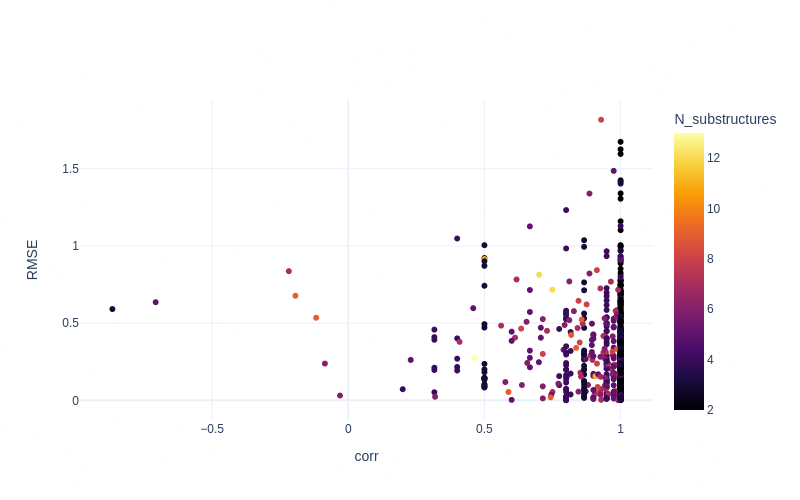
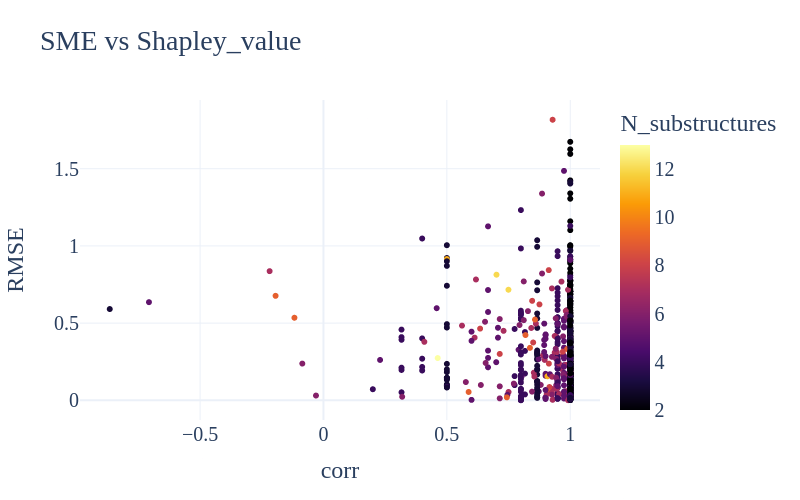
Create graphs for results section

diff --git a/thesis/content/chapters/introduction.tex b/thesis/content/chapters/introduction.tex
@@ -442,30 +442,31 @@ value that does include a communication structure is the Hamiache-Navarro value.
 \subsection{Hamiache-Navarro value}
 
 
-The Hamiache-Navarro value is introduced using one of the simplest examples
-(\cref{fig:shapley_hn_example}): 
-a three-player game $(N, v, g)$ with $N = \{1, 2, 3\}$ and a graphical structure 
-$g = \{\{1, 2\}, \{2, 3\}\}$ defined as a set of adjacent players. Communication 
+During the discussion of the HN value, an example will be used to illustrate 
+the concepts of the HN value and to make a comparison with the Shapley value. 
+The example game is an unanimity game $(N, v_N, g)$ (\cref{fig:shapley_hn_example}) 
+with three players $N = \{1, 2, 3\}$ and a communication structure $g = \{\{1, 2\}, \{2, 3\}\}$ 
+defined as a set of adjacent players.\cite{hamiache_associated_2020} Communication 
 between players is possible only if these players are connected by the graph 
-$\left<N, g\right>$. Players $i$ and $j$ are connected, represented by $i \leftarrow j$, 
-if they are adjacent (i.e. $\{i, j\} \in g$) or if there exists a sequence 
-$i = i_1, i_2, \dots, i_k = j$ of players such that $\{i_q, i_{q+1}\} \in g$ 
-for $1 \le q \le k - 1$. For example, players one and two are adjacent, and 
-players one and three are connected by the sequence 1, 2, 3.\cite{hamiache_value_1999, hamiache_associated_2020} 
+$\left<N, g\right>$. Players $i$ and $j$ are connected by a path, represented by $i \rightarrow j$, 
+if there exists a sequence $i = i_1, i_2, \dots, i_k = j$ of players such 
+that $\{i_q, i_{q+1}\} \in g$ for $1 \le q \le k - 1$. For example, 
+players one and two are adjacent and thus connected via the path $1, 2$. 
+Players one and three are connected by the sequence 1, 2, 3.\cite{hamiache_value_1999, hamiache_associated_2020} 
 
 
 \begin{figure}[h]
     \centering
     \includegraphics[scale=1.7]{shapley_hn_example.png}
-    \caption{Shapley values and HN values for an example game with communication structure 
-    given by the shown graph.}
+    \caption{Shapley values and HN values for the unanimity game $(\{1, 2, 3\}, v_{\{1, 2, 3\}}, \{\{1, 2\}, \{2, 3\}\})$ 
+            with communication structure given by the shown graph.}
     \label{fig:shapley_hn_example}
 \end{figure}
 
 
 A coalition $S \subseteq N$ can only directly interact with its connected neighbors 
 $\mathcal{N}(S) \coloneqq \{ j \in N \setminus S | \exists i \in S \text{ such that } \{i, j\} \in g \}$. 
-Player one can only interact directly with player two and not with player three
+Therefore, player one can only interact directly with player two and not with player three
 in the example game.
 The interconnection of the neighbors of $S$ is of no importance as the coalition 
 $S$ cannot see them. Therefore, the coalition $S$ can value its
@@ -478,7 +479,7 @@ that eventually converges to a limit game $(N, \tilde{v}, g)$. The Hamiache-Nava
 the example game, the associated payoff of player one is only directly influenced 
 by player two because player one and three cannot directly communicate 
 with each other. This means that the coalition $\{1, 3\}$ has a weight of zero for the 
-value of player one. However, the Shapley value would consider the coalition 
+HN value of player one. However, the Shapley value would consider the coalition 
 $\{1, 3\}$ for a weight of
 $\frac{|S|! ( |N| - |S| - 1)!}{|N|!} = \frac{2! (3 - 2 - 1)!}{3!} = \frac{1}{3}$ (see \cref{eq:Shapley}).
 
@@ -508,8 +509,26 @@ To be consistent, an order of the matrix columns and rows are defined. Therefore
 for coalitions of the same size. Suppose $A$ and $B$ are coalitions of the same size where the elements are ordered
 from small to large (i.e. $a_1 < a_2 < \dots < a_k, \quad a_i \in A$). The coalition $A$ comes lexicographic
 before coalition $B$ ($A \prec B$) if and only if $a_1 < b_1$ or $\exists \gamma \in \mathbb{N}, 1 \le i < \gamma: a_i = b_i \land a_\gamma < b_\gamma$.
-For two arbitrary coalitions $S$ and $T$, $S < T$ if $|S| < |T|$ or $S \prec T$. Using this ordering, the characteristic
-function $v$ of the game $(N, v, g)$ can be represented as a vector in $\mathbb{R}^{2^N - 1}$. The associated game
+For two arbitrary coalitions $S$ and $T$, $S < T$ if $|S| < |T|$ or $S \prec T$. 
+Using this ordering, the characteristic function $v$ of the game $(N, v, g)$ 
+can be represented as a vector in $\mathbb{R}^{2^N - 1}$, where the first $|N|$ elements 
+correspond to the values of coalitions of size one, the next $\frac{|N|!}{2!(|N| - 2)!}$, etc . 
+For the running example, this results in the following characteristic vector:
+
+
+\begin{equation}
+    \begin{aligned}
+        v &= \begin{pmatrix}
+        v(\{1\}) & v(\{2\}) & v(\{3\}) & v(\{1, 2\}) & v(\{1, 3\}) & v(\{2, 3\})& v(\{1, 2, 3\})
+    \end{pmatrix}^T \\
+    &= \begin{pmatrix}
+      0 & 0 & 0 & 0 & 0 & 0 & 1
+    \end{pmatrix}^T 
+    \end{aligned}
+\end{equation}
+
+
+The associated game
 \cref{eq:associated_game} $v^*_\tau = P_g M_c P_g v$ can then be written as a linear transformation of the characteristic vector
 , where the square matrix $M_c$ for two arbitrary coalitions $\emptyset \ne S \subseteq N$
 and $\emptyset \ne T \subseteq N$ is given by\cite{hamiache_associated_2020,hamiache2010matrix}

diff --git a/thesis/content/chapters/results_and_discussion.tex b/thesis/content/chapters/results_and_discussion.tex
@@ -1,13 +1,74 @@
 \chapter{Results and discussion}
 
-\section{Model training and evaluation}
+\section{RGCN is able to accurately predict expected water solubility}
 
 
-\section{Absolute prediction error in function of Spearman rank correlation between different attribution methods}
+% \begin{figure}[h]
+%     \centering
+%     \includegraphics[scale=0.20]{rgcn_r2.png}
+%     \includegraphics[scale=0.20]{rgcn_mse.png}
+%     \caption{Average Mean squared error (left) and $R^2$ (right) of train (orange) and validation 
+%     (blue) data during model training over the ten RGCN models, each trained using a different 
+%     seed. Both metrics show a good model performance and no overfitting.}
+% \end{figure}
 
 
-\section{Relative evaluation of attribution methods using chemically intuitively ranked substructures}
+\begin{figure}[h]
+    \centering
+    \includegraphics[scale=0.20]{rgcn_r2_zoomed.png}
+    \includegraphics[scale=0.20]{rgcn_mse_zoomed.png}
+    \caption{Average $R^2$ (left) and mean squared error (right) of train (orange) and validation 
+    (blue) data during model training over the ten RGCN models, each trained using a different 
+    seed. Both metrics show a good model performance and no overfitting. }
+\end{figure}
+
+\section{The absolute prediction error is not associated with the Spearman rank correlation between different attribution methods}
 
 
-\section{Explanation faithfullnes: fidelity}
+\begin{figure}[h]
+    \centering
+    \includegraphics[scale=0.35]{../data/images/esol_rank_vs_AE_SME_Shapley_combined.png}
+    \includegraphics[scale=0.35]{../data/images/esol_rank_vs_AE_Shapley_HN_combined.png}
+    \caption{Absolute error of model prediction in function of Spearman rank correlation between 
+        attributions from SME and Shapley (top) and between Shapley and HN (bottom) using the full 
+        data set containing 1110 molecules.
+    }
+\end{figure}
 
+
+\section{Relative evaluation of attribution methods using chemically intuitively ranked substructures shows no statistical
+significant difference between the attribution methods}
+
+\begin{figure}[h]
+    \centering
+    \includegraphics[scale=0.5]{spearman_rank_correlation_manual_vs_attribution.png}
+    \caption{Distribution of Spearman rank correlation between an attribution method 
+        and a manual ranking of substructures using chemical reasoning. The difference 
+        between the two absolute error groups is mainly the intensity of high 
+        correlation values.
+    }
+    \label{fig:spearman_corr_manual}
+\end{figure}
+
+
+\section{All attribution methods are equally faithful to the ML model}
+
+\begin{figure}[h]
+    \centering
+    \includegraphics[scale=0.5]{fidelity.png}
+    \caption{Distribution of fidelity obtained by removing the most positive 
+        attribution (right side) or the most negative attribution (left side).
+    }
+    \label{fig:fidelity}
+\end{figure}
+
+
+\begin{figure}[h]
+    \centering
+    \includegraphics[scale=0.5]{absolute_fidelity.png}
+    \caption{Distribution of fidelity obtained by removing the most positive 
+        attribution in absolute values (right side) or the most negative 
+        attribution in absolute values (left side).
+    }
+    \label{fig:fidelity}
+\end{figure}

diff --git a/thesis/content/chapters/methodology.tex b/thesis/content/chapters/methodology.tex
@@ -5,7 +5,7 @@
 
 The same data set as Wu et. al is used which is part of the publicly available 
 benchmark data sets of MoleculeNet.\cite{wu2018moleculenet} This data set contains 
-the measured solubility at $25^{\circ} C$ in $log(mol/L)$ for $1111$ compounds when duplicates 
+the measured solubility at $25^{\circ} C$ in $log(mol/L)$ for $1110$ compounds when duplicates 
 are removed. Molecules are represented as a string using the simple molecular 
 line entry system \big(SMILES\big).\cite{weininger1988smiles} Another representation 
 of molecules is a graph where the atoms represent the nodes and the bonds represent 
